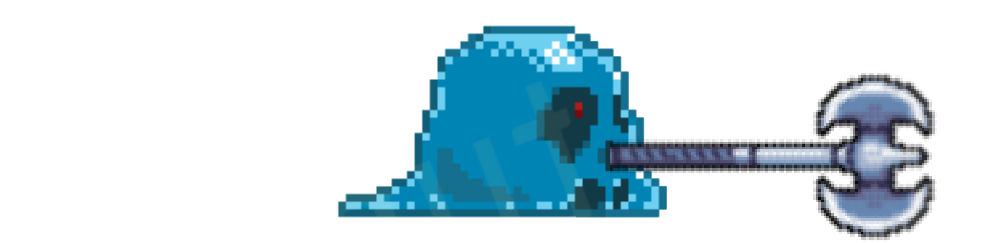
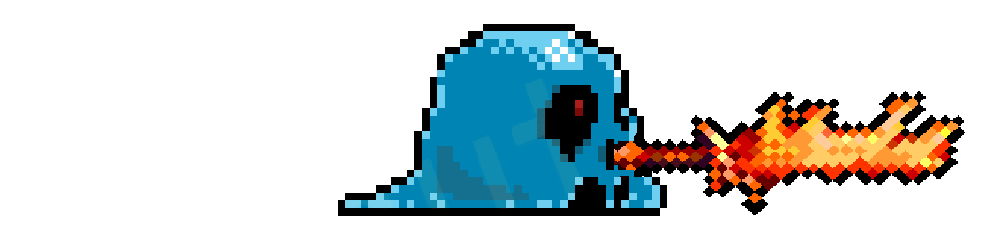
added animations and game input listener

Changed region(s): [[0.3396, 0.0864, 0.9572, 1.0]]

diff --git a/src/game.js b/src/game.js
@@ -26,7 +26,7 @@ gameState.load.prototype = {
         game.load.image('background', 'assets/img/background3.png');
         
         // Hero
-        game.load.spritesheet('oldman','assets/img/oldman.png', 527, 413, 6);
+        game.load.spritesheet('oldman','assets/img/oldman2.png', 527, 413, 6);
         
         // Colonne de slime
         game.load.image('slime1', 'assets/img/slime1.png');
@@ -45,6 +45,9 @@ gameState.main.prototype = {
     create: function () {
         // initialisation et intégration des ressources dans le canvas
         
+        // Physique du jeu
+        game.physics.startSystem(Phaser.Physics.ARCADE);
+        
         // On fait en sorte que le jeu se redimensionne selon la taille de l'écran (Pour les PC)
         game.scale.scaleMode = Phaser.ScaleManager.SHOW_ALL;
         game.scale.parentIsWindow = true;
@@ -62,20 +65,33 @@ gameState.main.prototype = {
         // Construction de la colonne
         this.HEIGHT_SLIME_COLUMN = 243;
         this.constructSlimeColumn();
-        this.canCut = true;
+        this.canKill = true;
         
         // Création du hero
         this.oldman = game.add.sprite(0, 1070, 'oldman');
-        this.oldman.animations.add('idle', [0,1,2,3]);
+        this.oldman.animations.add('idle', [0,1,0,0,0,0,0]);
         this.oldman.animations.add('hit', [4,5,4]);
         this.oldman.animations.play('idle', 3, true);
         // Position du hero
         this.oldmanPosition = 'left';
         
+        // Au click, on appelle la fonction "listener()"
+        game.input.onDown.add(this.listener, this);
         
+        // Score
+        this.currentScore = 0;
     },
     update: function () {
         // Animations
+        // Si la partie n'est pas fini
+        if(!GAME_OVER){
+            // Detection des touches gauche et droite
+            if(game.input.keyboard.isDown(Phaser.Keyboard.LEFT)){
+                this.listener('left');
+            } else if(game.input.keyboard.isDown(Phaser.Keyboard.RIGHT)){
+                this.listener('right');
+            }
+        }
     },
     
     constructSlimeColumn: function () {
@@ -95,7 +111,7 @@ gameState.main.prototype = {
         var slimes = ['slime1', 'slime2'];
         var slimeWithWeapon = ['slime-weapon1', 'slime-weapon2'];
         // Si le dernier slime du groupe n'a pas d'arme
-        if(slimeWithWeapon.indexOf(this.slimeColumn.getAt(this.slimeColumn.length - 1).key) == -1){
+        if(slimeWithWeapon.indexOf(this.slimeColumn.getAt(this.slimeColumn.length - 1).key) === -1){
             // 1 chance sur 4 de placer un slime sans arme
             if(Math.random() * 4 <= 1){
                 this.slimeColumn.create(
@@ -118,6 +134,105 @@ gameState.main.prototype = {
                 slimes[Math.floor(Math.random() * 2)]
             );
         }
+    },
+    
+    listener: function (action) {
+        if(this.canKill){
+            // La premiere action de l'utilisateur déclenche le début de la partie
+            if(!GAME_START){
+                GAME_START = true;
+            }
+            
+            // On vérifie si l'action du joueur est un clic
+            var isClick = action instanceof Phaser.Pointer;
+            
+            // Si la touche directionnelle gauche est pressée ou s'il y a un click dans la moitié gauche du jeu
+            if(action === 'left' || (isClick && game.input.activePointer.x <= game.width / 2)) {
+                // On remet le personnage a gauche de l'arbre et dans le sens de départ
+                this.oldman.anchor.setTo(0, 0);
+                this.oldman.scale.x = 1;
+                this.oldman.x = 0;
+                this.oldmanPosition = 'left';
+            }
+            // Si la touche directionnelle droite est pressée ou s'il y a un click dans la moitié droite du jeu
+            else {
+                // On inverse le sens du personnage pour le mettre a droite
+                this.oldman.anchor.setTo(1, 0);
+                this.oldman.scale.x = -1;
+                this.oldman.x = game.width - Math.abs(this.oldman.width);
+                this.oldmanPosition = 'right';
+            }
+            
+            // On stop l'animation "idle"
+            this.oldman.animations.stop('idle', true);
+            // On démarre l'animation "hit", une seule fois et avec 3 images par secondes
+            var animationKill = this.oldman.animations.play('hit', 15);
+            // Une fois l'animation finie, on reprend l'animation de respiration
+            animationKill.onComplete.add(function () {
+                this.oldman.animations.play('idle', 3, true);
+            }, this);
+            
+            this.killSlime();
+        }
+    },
+    
+    killSlime: function () {
+        // On incrémente le score
+        this.increaseScore();
+        
+        // On ajoute un slime simple ou un slime armé
+        this.addSlime();
+        
+        // on crée une copie du slime qui doit être tué
+        var killedSlime = game.add.sprite(37, 1151, this.slimeColumn.getAt(0).key);
+        // Et on supprime le slime
+        this.slimeColumn.remove(this.slimeColumn.getAt(0));
+        // On active le systeme de physique sur ce sprite
+        game.physics.enable(killedSlime, Phaser.Physics.ARCADE);
+        // On déplace le centre de gravité du sprite en son milieu
+        killedSlime.anchor.setTo(0.5, 0.5);
+        killedSlime.x += killedSlime.width / 2;
+        killedSlime.y += killedSlime.height / 2;
+        
+        var angle = 0;
+        // Si le personnage se trouve à gauche, on envoi le slime a droite
+        if(this.oldmanPosition === 'left'){
+            killedSlime.body.velocity.x = 1300;
+            angle = -400;
+        }
+        else {
+            killedSlime.body.velocity.x = -1300;
+            angle = 400;
+        }
+        
+        // Permet de creer un effet de gravité
+        // Dans un premier temps, le slime est propulsé en l'air
+        killedSlime.body.velocity.y = -800;
+        // Et dans un second temps, il retombe
+        killedSlime.body.gravity.y = 2000;
+        
+        // On ajoute une animation de rotation sur le slime tué
+        game.add.tween(killedSlime).to({angle: killedSlime.angle + angle}, 1000, Phaser.Easing.Cubic.Out, true);
+        
+        // On empèche un nouveau kill
+        this.canKill = false;
+        
+        var self = this;
+        
+        // Pour chaque slime encore présent, on ajoute une animation de chute
+        // pour boucher le trou laissé par le slime tué
+        this.slimeColumn.forEach(function (slime) {
+            var tween = game.add.tween(slime).to({y: slime.y + self.HEIGHT_SLIME_COLUMN}, 100, Phaser.Easing.Bounce.Out, true);
+            tween.onComplete.add(function () {
+                // Une fois que l'animation est finie, on redonne la possibilité de tué au héro
+                self.canKill = true;
+            }, self);
+        })
+        
+    },
+    
+    increaseScore: function () {
+        this.currentScore++;
     }
 };
 
